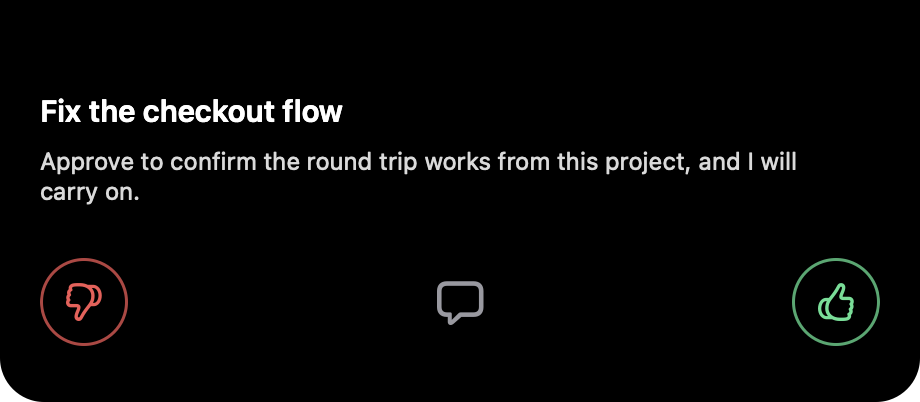
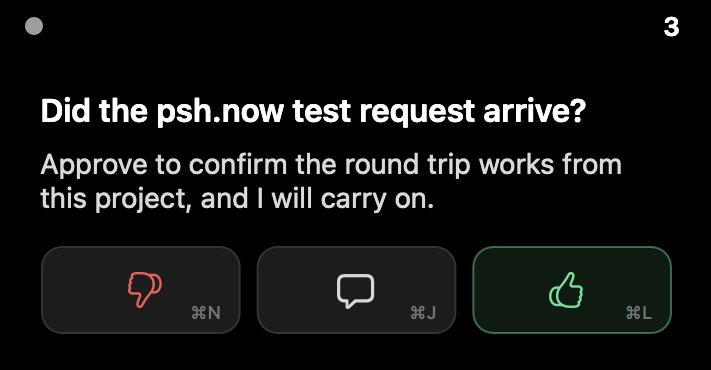
notch docs: five captured pngs nothing pointed at are gone, and the three the README does show are re-rendered from this build in the state each one claims (compact, list, detail) instead of two of them being the same stale compact frame

diff --git a/tools/psh-notch/README.md b/tools/psh-notch/README.md
@@ -344,7 +344,7 @@ screen, it settles at 460x222 with its top edge flush with the top of the displa
 the black strip at the top reads as the notch itself and the card appears to unroll
 out of it (0.26s, ease-out, from a 32pt strip to full height).
 
-![the card](preview.png)
+![the card](detail.png)
 
 With the bubble open, the bubble has moved to the left and the field is beside it as an
 outline on the same black, at the same card height: `--render bubble.png --answer`.
